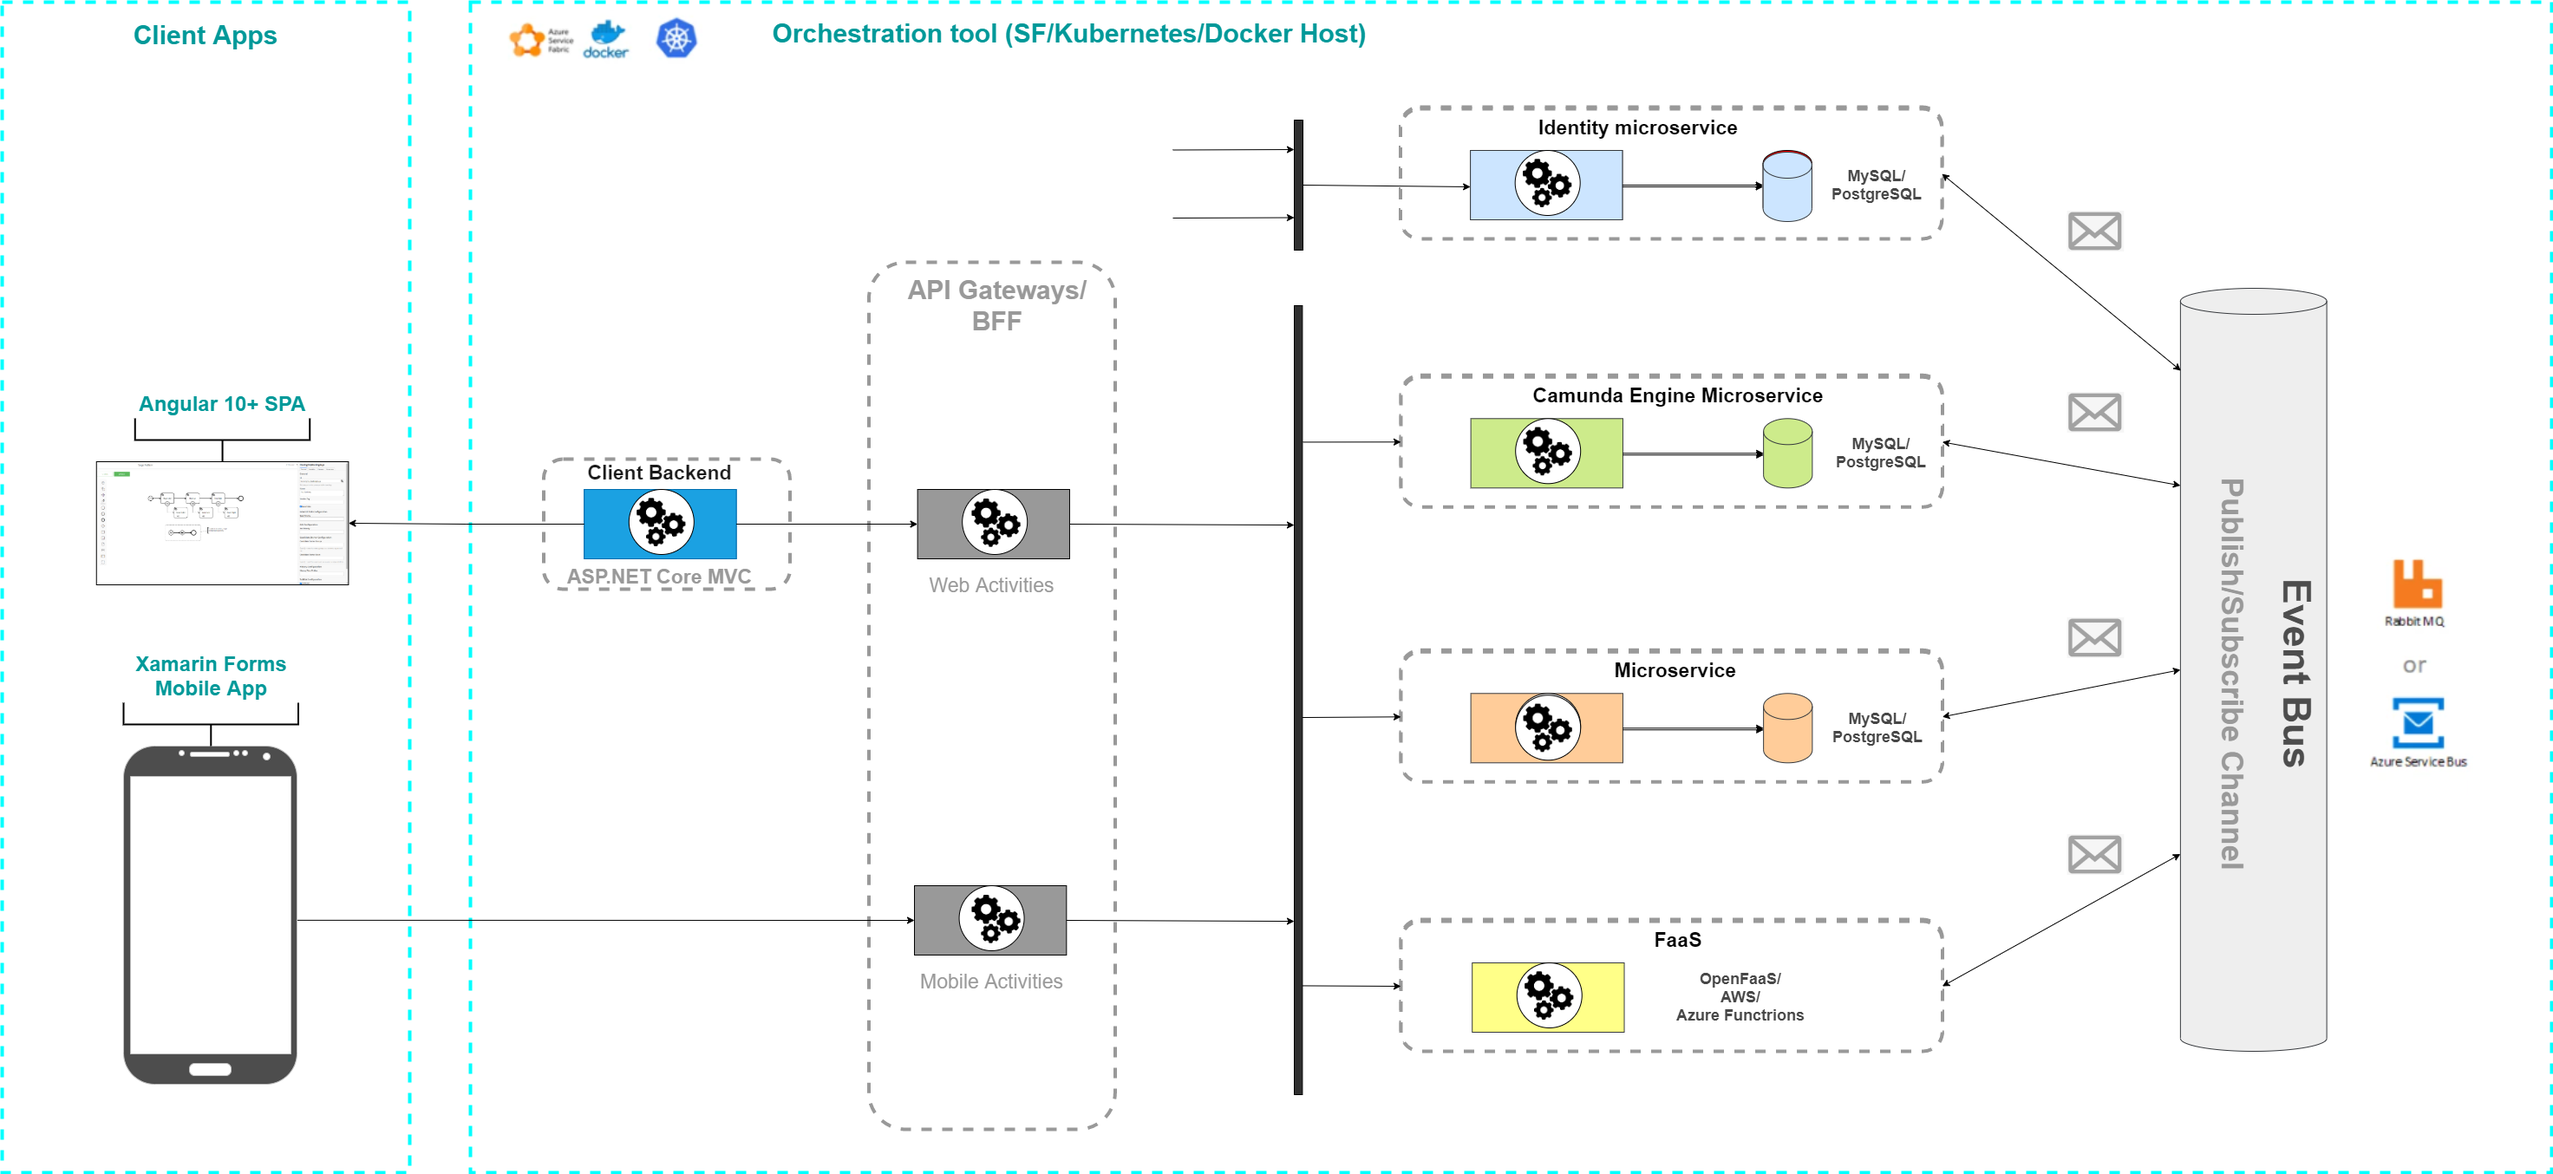
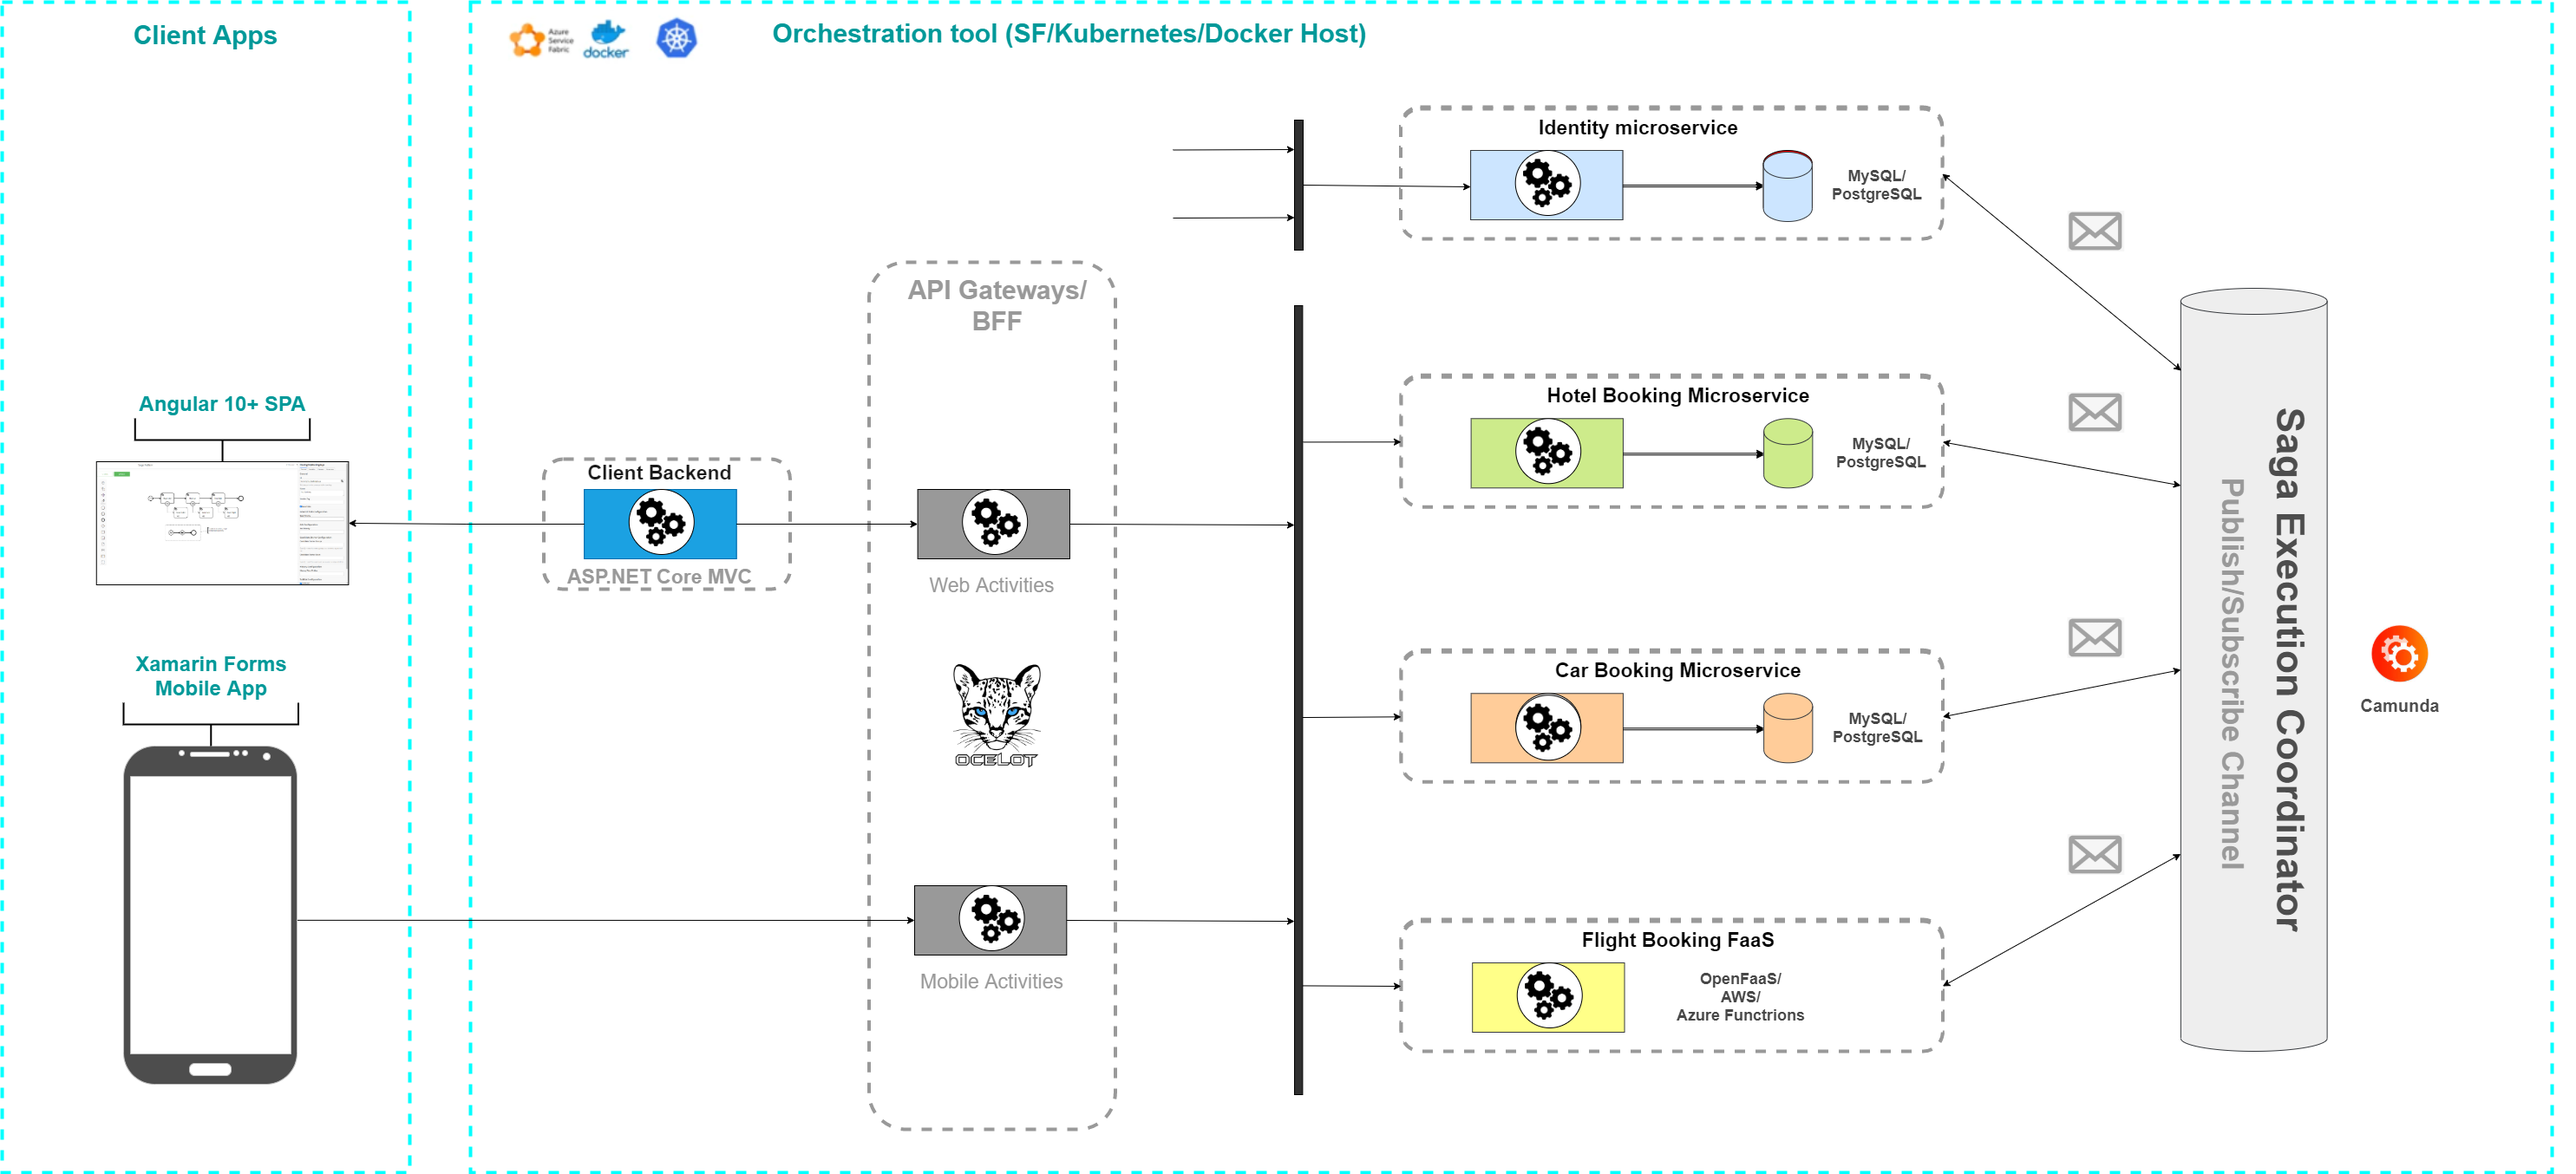
* [Docu] change the saga architecturer image * [Docker-Compose] adjust the config for the database, add dependencies from services, add wait for database command to api * [Generator-Service] configure the automapper * [General] execute some refactoring

diff --git a/src/Ar.Services/Generator.Service/Ar.Generator.Service/IntegrationEvents/EventHandling/SemanticModelCreatedIntegrationEventHandler.cs b/src/Ar.Services/Generator.Service/Ar.Generator.Service/IntegrationEvents/EventHandling/SemanticModelCreatedIntegrationEventHandler.cs
@@ -1,12 +1,8 @@
-using Ar.Generator.Repository.Repositories;
-using Ar.Generator.Repository.Wrapper;
+using Ar.Generator.Repository.Wrapper;
 using Ar.Generator.Service.IntegrationEvents.Events;
 using Ar.Messages.EventBus.EventBus.Abstractions;
 using Microsoft.Extensions.Logging;
 using System;
-using System.Collections.Generic;
-using System.Linq;
-using System.Text;
 using System.Threading.Tasks;
 
 namespace Ar.Generator.Service.IntegrationEvents.EventHandling
@@ -16,9 +12,7 @@ namespace Ar.Generator.Service.IntegrationEvents.EventHandling
         private readonly IRepositoryWrapper _repositoryWrapper;
         private readonly ILogger<SemanticModelCreatedIntegrationEventHandler> _logger;
 
-        public SemanticModelCreatedIntegrationEventHandler(
-            IRepositoryWrapper wrapper,
-            ILogger<SemanticModelCreatedIntegrationEventHandler> logger)
+        public SemanticModelCreatedIntegrationEventHandler(IRepositoryWrapper wrapper, ILogger<SemanticModelCreatedIntegrationEventHandler> logger)
         {
             _repositoryWrapper = wrapper ?? throw new ArgumentNullException(nameof(wrapper));
             _logger = logger ?? throw new ArgumentNullException(nameof(logger));

diff --git a/src/Ar.Services/Generator.Service/Ar.Generator.Repository/Helpers/AutomapperConfig.cs b/src/Ar.Services/Generator.Service/Ar.Generator.Repository/Helpers/AutomapperConfig.cs
@@ -1,4 +1,8 @@
-using AutoMapper;
+using Ar.Generator.Data.Models.ArchitecturalPatterns;
+using Ar.Generator.Data.Models.Deployments;
+using Ar.Generator.Data.Models.SolutionAppConfig;
+using Architect.Dto.Dto;
+using AutoMapper;
 
 namespace Ar.Generator.Repository.Helpers
 {
@@ -15,8 +19,23 @@ namespace Ar.Generator.Repository.Helpers
 
             config = new MapperConfiguration(cfg =>
             {
-                //cfg.CreateMap<Address, AddressDTO>()
-                //    .ReverseMap();
+                cfg.CreateMap<Application, ApplicationDto>()
+                    .ReverseMap();
+
+                cfg.CreateMap<BpmnActivityHandler, BpmnActivityHandlerDto>()
+                   .ReverseMap();
+
+                cfg.CreateMap<Deployment, DeploymentDto>()
+                  .ReverseMap();
+
+                cfg.CreateMap<DesignPattern, DesignPatternDto>()
+                  .ReverseMap();
+
+                cfg.CreateMap<Folder, FolderDto>()
+                  .ReverseMap();
+
+                cfg.CreateMap<Solution, SolutionDto>()
+                  .ReverseMap();
 
             });
 

diff --git a/src/Ar.Services/Generator.Service/Ar.Generator.Api/Startup.cs b/src/Ar.Services/Generator.Service/Ar.Generator.Api/Startup.cs
@@ -98,7 +98,7 @@ namespace Ar.Generator.Api
 
         private void ConfigureAuthService(IServiceCollection services)
         {
-            // prevent from mapping "sub" claim to nameidentifier.
+            // Prevent from mapping "sub" claim to nameidentifier.
             JwtSecurityTokenHandler.DefaultInboundClaimTypeMap.Remove("sub");
 
             var identityUrl = Configuration.GetValue<string>("IdentityUrl");

diff --git a/src/Ar.Services/Generator.Service/Ar.Generator.Data/Models/EntityModel/DbEntityRelationship.cs b/src/Ar.Services/Generator.Service/Ar.Generator.Data/Models/EntityModel/DbEntityRelationship.cs
@@ -1,4 +1,5 @@
-using System.ComponentModel.DataAnnotations.Schema;
+using Architect.Dto.Dto;
+using System.ComponentModel.DataAnnotations.Schema;
 
 namespace Ar.Generator.Data.Models.EntityModel
 {

diff --git a/src/Ar.Services/Generator.Service/Ar.Generator.Repository/Helpers/DatabaseMigrationExtension.cs b/src/Ar.Services/Generator.Service/Ar.Generator.Repository/Helpers/DatabaseMigrationExtension.cs
@@ -1,5 +1,4 @@
-using Ar.Generator.Repository;
-using Microsoft.EntityFrameworkCore;
+using Microsoft.EntityFrameworkCore;
 
 namespace Ar.Generator.Repository.Helpers
 {

diff --git a/src/Ar.Common/DataContracts/Architect.Dto/Dto/RelationshipType.cs b/src/Ar.Common/DataContracts/Architect.Dto/Dto/RelationshipType.cs
@@ -1,4 +1,4 @@
-namespace Ar.Generator.Data.Models.EntityModel
+namespace Architect.Dto.Dto
 {
     public enum RelationshipType
     {
